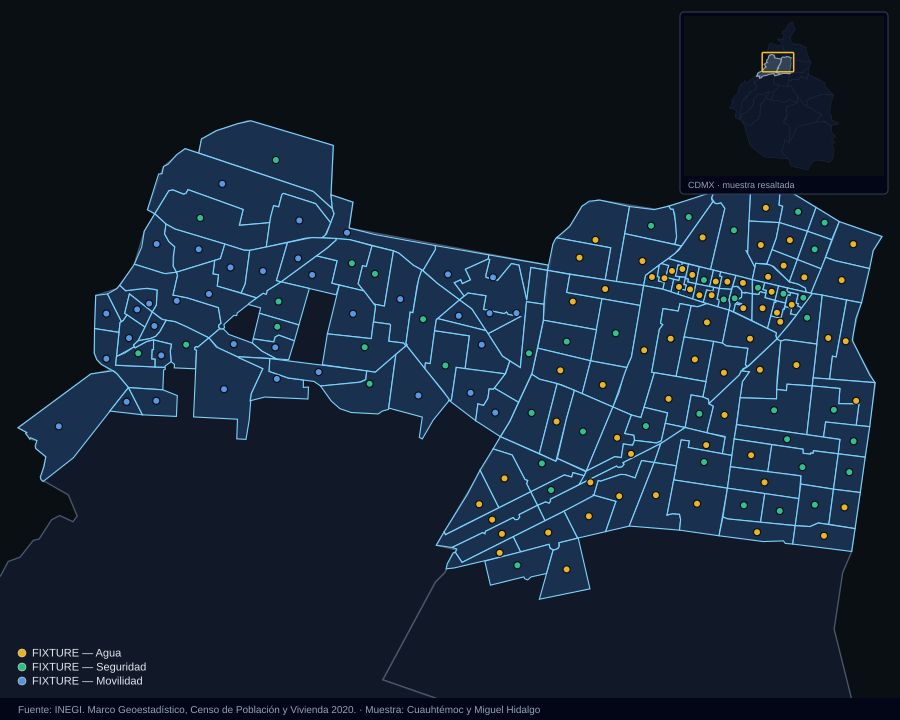
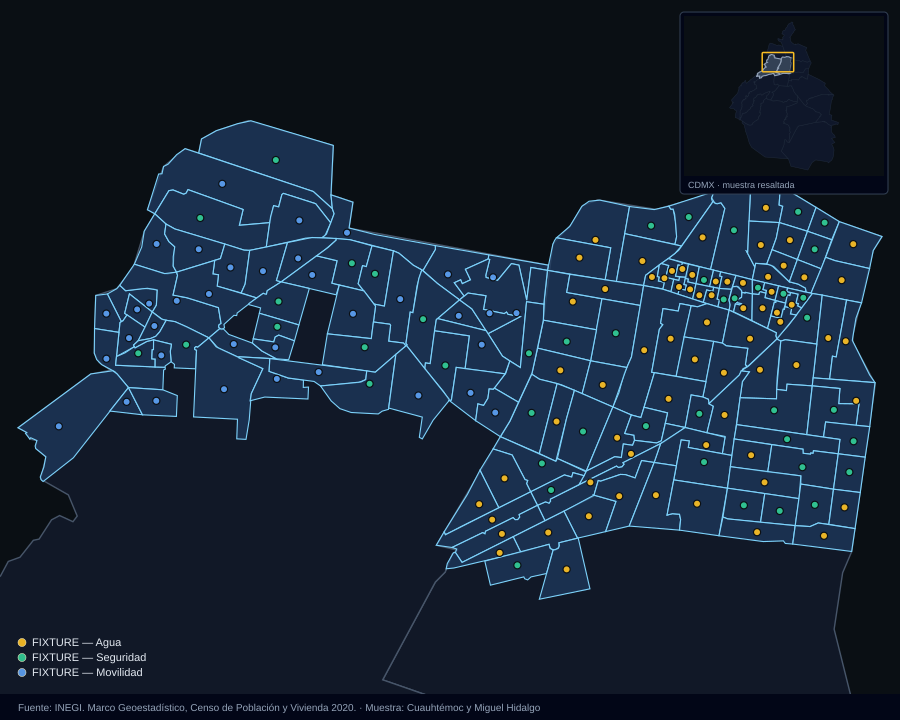
fix(sim-report): more gap between map legend and source band

Changed region(s): [[0.0311, 0.9778, 0.5911, 1.0], [0.0, 0.8861, 0.1556, 0.9472]]

diff --git a/lib/sim-report/map-snapshot.ts b/lib/sim-report/map-snapshot.ts
@@ -311,11 +311,12 @@ export async function renderSimMapSnapshotPng(
 
   // Legend sits above a dedicated source band so labels never collide with
   // the INEGI attribution line.
-  const SOURCE_BAND_H = 22
+  const SOURCE_BAND_H = 26
   const legendItems = input.options.slice(0, 6)
-  const legendLineH = 14
+  const legendLineH = 15
+  const legendGapAboveSource = 14
   const legendBlockH = Math.max(legendLineH, legendItems.length * legendLineH)
-  const legendBottom = MAP_H - SOURCE_BAND_H - 10
+  const legendBottom = MAP_H - SOURCE_BAND_H - legendGapAboveSource
   const legendTop = legendBottom - legendBlockH + legendLineH / 2
   const legend = legendItems
     .map((o, i) => {
@@ -344,7 +345,7 @@ export async function renderSimMapSnapshotPng(
   <g>${legend}</g>
   ${inset}
   <rect x="0" y="${MAP_H - SOURCE_BAND_H}" width="${MAP_W}" height="${SOURCE_BAND_H}" fill="#020617"/>
-  <text x="${MAIN_PAD}" y="${MAP_H - 7}" fill="#94a3b8" font-size="10" font-family="Helvetica, Arial, sans-serif">Fuente: INEGI. Marco Geoestadístico, Censo de Población y Vivienda 2020. · Muestra: Cuauhtémoc y Miguel Hidalgo</text>
+  <text x="${MAIN_PAD}" y="${MAP_H - 9}" fill="#94a3b8" font-size="10" font-family="Helvetica, Arial, sans-serif">Fuente: INEGI. Marco Geoestadístico, Censo de Población y Vivienda 2020. · Muestra: Cuauhtémoc y Miguel Hidalgo</text>
 </svg>`
 
   try {
